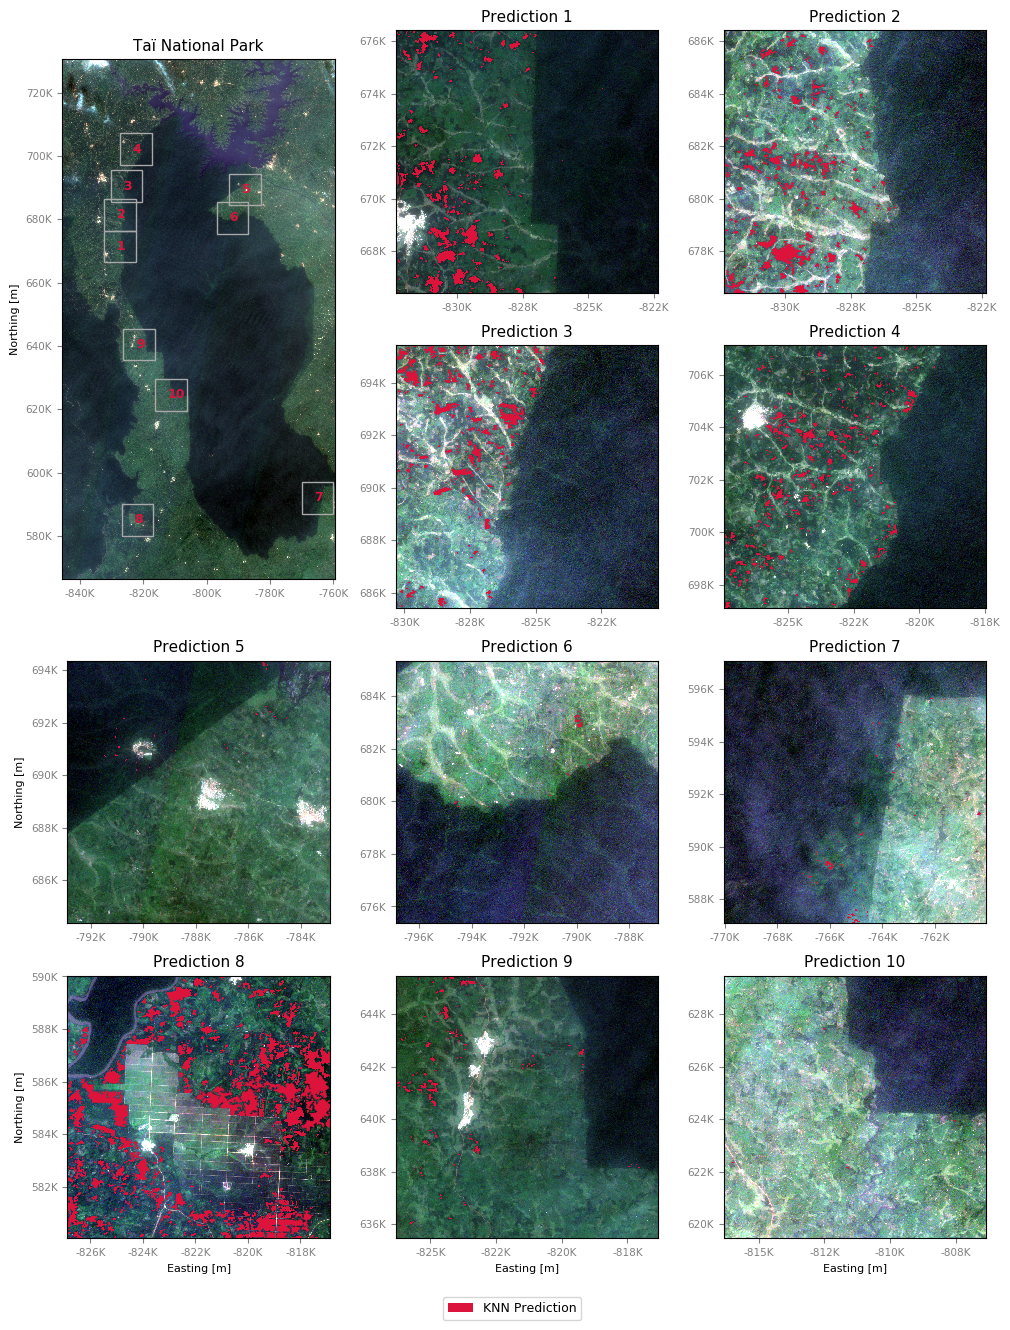
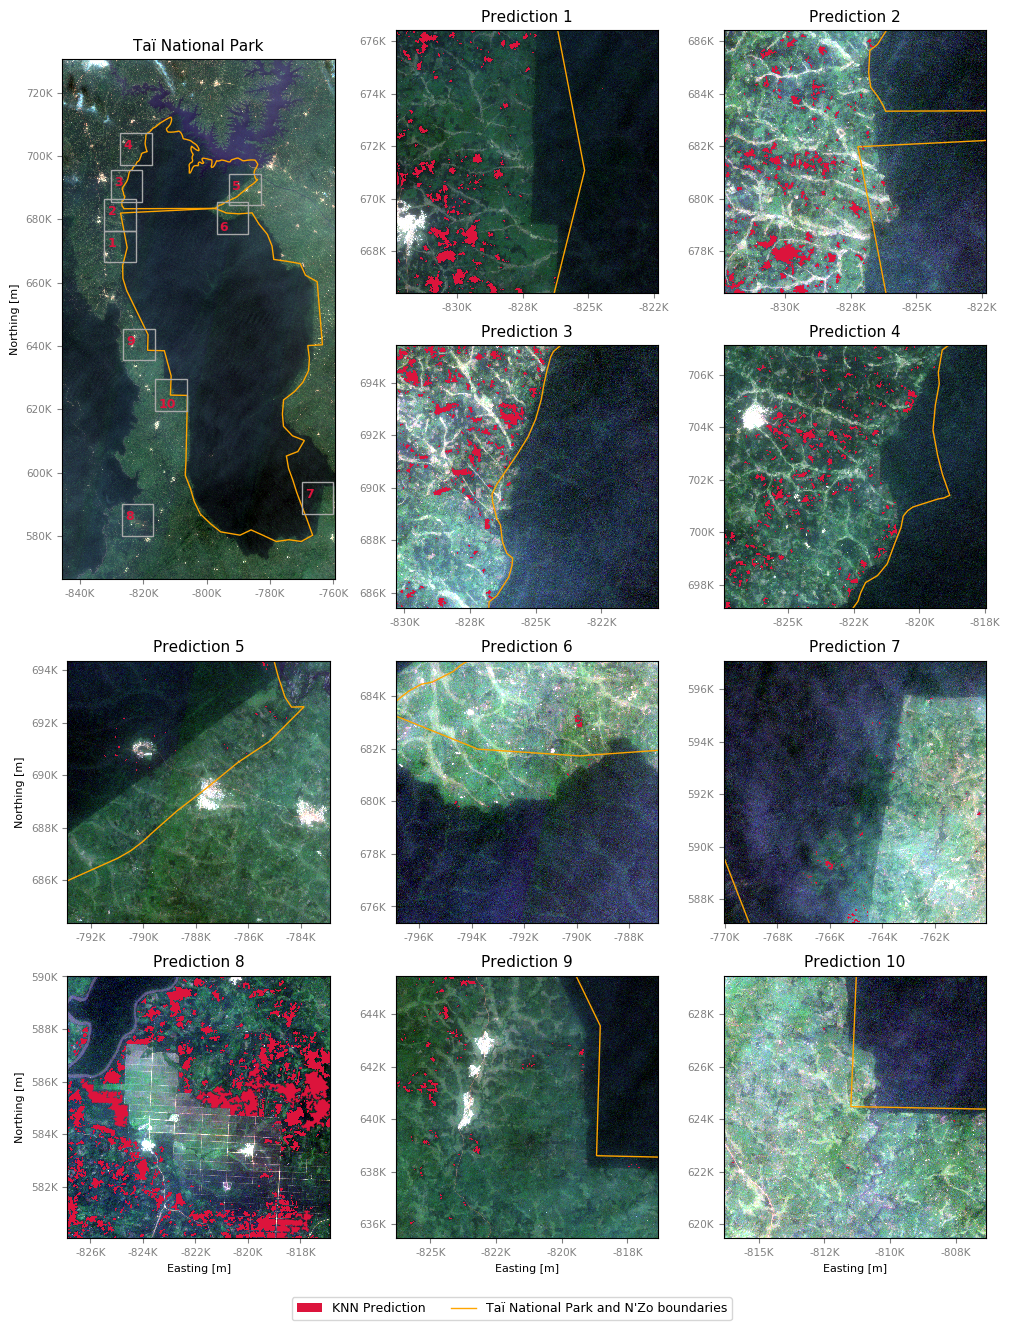
add N'Zo fauna reserve boundary

diff --git a/Code/prediction_script.py b/Code/prediction_script.py
@@ -25,6 +25,11 @@ band, meta_whole = load_geotiff(path_geotiff+'2018_12_29_Tai_whole.tiff', window
 img_whole = contrast_adjust(band, (0.1,99.9))
 
 # %% -------------------------------------------------------------------------------------------------------------
+# get the park polygon
+polygons_park = load_shapefile(path_shp+'Tai_boundaries/WDPA_Oct2019_protected_area_721-shapefile-polygons.shp', projection=pyproj.Proj(meta_test['crs']))
+polygons_park += load_shapefile(path_shp+'NZo/WDPA_Jan2020_protected_area_2293-shapefile-polygons.shp', projection=pyproj.Proj(meta_nearby['crs']))
+
+# %% -------------------------------------------------------------------------------------------------------------
 # load part sample from large images
 h, w = 1000, 1000
 windows = [rasterio.windows.Window(1000, 2000, w, h), \
@@ -97,20 +102,25 @@ for i, (pred, meta) in enumerate(zip(preds, metas)):
 fig = plt.figure(figsize=(12,16))
 gs = plt.GridSpec(4, 3, wspace=0.2, hspace=0.2)
 title_fs = 11
+park_color = 'orange'
 pred_fc = 'crimson'
 pred_ec = None
 pred_alpha = 1
+offset_w = [9, 9, 9, 9, 9, 9, 9, 9, 9, 9]
+offset_h = [5, 5, 5, 5, 5, 9, 5, 5, 5, 9]
 
 # overview img
 ax_overview = fig.add_subplot(gs[0:2,0])
 ax_overview.set_title('Taï National Park', fontsize=title_fs)
 show_image(img_whole, meta_whole['transform'], ax=ax_overview, band_idx=[2,1,0])
+for p in polygons_park:
+    ax_overview.add_patch(matplotlib.patches.Polygon(p, **{'linewidth':1, 'facecolor':(0,0,0,0), 'edgecolor':'orange'}))
 for i, bound in enumerate(bounds):
     ax_overview.add_patch(matplotlib.patches.Rectangle(bound[0:2], \
                                                        width=np.abs(bound[0] - bound[2]), \
                                                        height=np.abs(bound[1] - bound[3]), \
                                                        linewidth=1, facecolor=(0,0,0,0), edgecolor='darkgray'))
-    ax_overview.text(bound[2]-6*w, bound[3]-6*h, str(i+1), fontsize=9, color='crimson', fontweight='bold')
+    ax_overview.text(bound[2]-offset_w[i]*w, bound[3]-offset_h[i]*h, str(i+1), fontsize=9, color='crimson', fontweight='bold')
 
 # create axes for predictions
 axs = []
@@ -121,6 +131,8 @@ for i in range(3*4):
 for i, (im, meta, poly, ax) in enumerate(zip(img_adj, metas, pred_poly, axs)):
     ax.set_title(f'Prediction {i+1}', fontsize=title_fs)
     show_image(im, meta['transform'], ax=ax, band_idx=[3,2,1])
+    for p in polygons_park:
+        ax.add_patch(matplotlib.patches.Polygon(p, **{'linewidth':1, 'facecolor':(0,0,0,0), 'edgecolor':park_color}))
     for p in poly:
         ax.add_patch(matplotlib.patches.Polygon(p, **{'linewidth':1, 'facecolor':pred_fc, 'edgecolor':pred_ec, 'alpha':pred_alpha}))
 
@@ -135,9 +147,9 @@ for i, ax in enumerate([ax_overview]+axs):
     ax.xaxis.set_major_formatter(matplotlib.ticker.FuncFormatter(human_format))
 
 # legend
-handles = [matplotlib.patches.Patch(linewidth=0.75, facecolor=pred_fc, edgecolor=pred_ec, alpha=pred_alpha)]
-labels = ['KNN Prediction']
-lgd = fig.legend(handles=handles, labels=labels, loc='lower center', bbox_to_anchor=(0.5, 0.07), bbox_transform=fig.transFigure, ncol=1, fontsize=9)
+handles = [matplotlib.patches.Patch(linewidth=0.75, facecolor=pred_fc, edgecolor=pred_ec, alpha=pred_alpha), matplotlib.lines.Line2D([0], [0], color=park_color, linewidth=1)]
+labels = ['KNN Prediction', "Taï National Park and N'Zo boundaries"]
+lgd = fig.legend(handles=handles, labels=labels, loc='lower center', bbox_to_anchor=(0.5, 0.07), bbox_transform=fig.transFigure, ncol=2, fontsize=9)
 
 fig.savefig('../Figures/predictions.png', dpi=100, bbox_extra_artists=(lgd,), bbox_inches='tight')
 plt.show()

diff --git a/Code/description_fig_script.py b/Code/description_fig_script.py
@@ -38,9 +38,11 @@ dist_bounds = rasterio.transform.array_bounds(meta_distant['height'], meta_dista
 # %% Load shapefile
 shp_path = '../Data/shapefiles/'
 polygons_Tai = load_shapefile(shp_path+'Tai_boundaries/WDPA_Oct2019_protected_area_721-shapefile-polygons.shp', projection=pyproj.Proj(meta_nearby['crs']))
+polygons_Nzo = load_shapefile(shp_path+'NZo/WDPA_Jan2020_protected_area_2293-shapefile-polygons.shp', projection=pyproj.Proj(meta_nearby['crs']))
 polygons_train, _, _ = load_target_shp(shp_path+'labels/Tai/segmentation.shp', transform=meta_nearby['transform'], projection=pyproj.Proj(meta_nearby['crs']))
 polygons_test, _, _ = load_target_shp(shp_path+'labels/control/segmentation_control.shp', transform=meta_nearby['transform'], projection=pyproj.Proj(meta_nearby['crs']))
 polygons_test_dist, _, _ = load_target_shp(shp_path+'labels/distant/Segmentation_distant2.shp', transform=meta_distant['transform'], projection=pyproj.Proj(meta_distant['crs']))
+polygons_Tai += polygons_Nzo
 
 # %% plot images
 title_fs = 10
@@ -85,6 +87,8 @@ show_image(img_distant, meta_distant['transform'], ax=ax_dist, band_idx=[3,2,1])
 
 for p in polygons_test_dist:
     ax_dist.add_patch(matplotlib.patches.Polygon(p, **{'linewidth':0.75, 'facecolor':(0,0,0,0), 'edgecolor':test_color}))
+for p in polygons_Tai:
+    ax_dist.add_patch(matplotlib.patches.Polygon(p, **{'linewidth':1, 'facecolor':(0,0,0,0), 'edgecolor':'orange'}))
 
 # line between NW and distant
 ax_dist.add_artist(matplotlib.patches.ConnectionPatch(xyA=(dist_bounds[0],dist_bounds[1]), xyB=(dist_bounds[2],dist_bounds[1]), \
@@ -123,7 +127,7 @@ for i, ax in enumerate(axs):
 
 # legend
 handles = [matplotlib.lines.Line2D([0], [0], color=c, linewidth=2) for c in [park_color, train_color, test_color]]
-labels = ['Taï National Park boundaries', 'Training cocoa plantations', 'Testing cocoa plantations']
+labels = ["Taï National Park and N'Zo boundaries", "Training cocoa plantations", "Testing cocoa plantations"]
 lgd = fig.legend(handles=handles, labels=labels, loc='lower center', bbox_to_anchor=(0.5, 0.01), bbox_transform=fig.transFigure, ncol=4, fontsize=9)
 
 fig.savefig('../Figures/overview.png', dpi=100, bbox_extra_artists=(lgd,), bbox_inches='tight')

diff --git a/Code/testing_script.py b/Code/testing_script.py
@@ -15,6 +15,10 @@ from visualization import show_image
 
 def detection_rate(mask, pred):
     """
+    Compute the fraction of the polygon on mask present on the pred.
+    INPUT : mask (2D numpy array) -> the mask of ground truth
+            pred (2D numpy array) -> the mask of prediction
+    OUTPUT : rate [float] -> the detection rate
 
     """
     polygon_mask = (mask == 1).ravel()
@@ -63,6 +67,7 @@ mask_test_dist = compute_mask(polygons_rc_test_dist, meta_test_dist['width'], me
 
 # %% get the park polygon
 polygons_park = load_shapefile(path_shp+'Tai_boundaries/WDPA_Oct2019_protected_area_721-shapefile-polygons.shp', projection=pyproj.Proj(meta_test['crs']))
+polygons_park += load_shapefile(path_shp+'NZo/WDPA_Jan2020_protected_area_2293-shapefile-polygons.shp', projection=pyproj.Proj(meta_nearby['crs']))
 
 # ---------------------------------------------------------------------------------------------------------------
 # %% Load the fitted models
